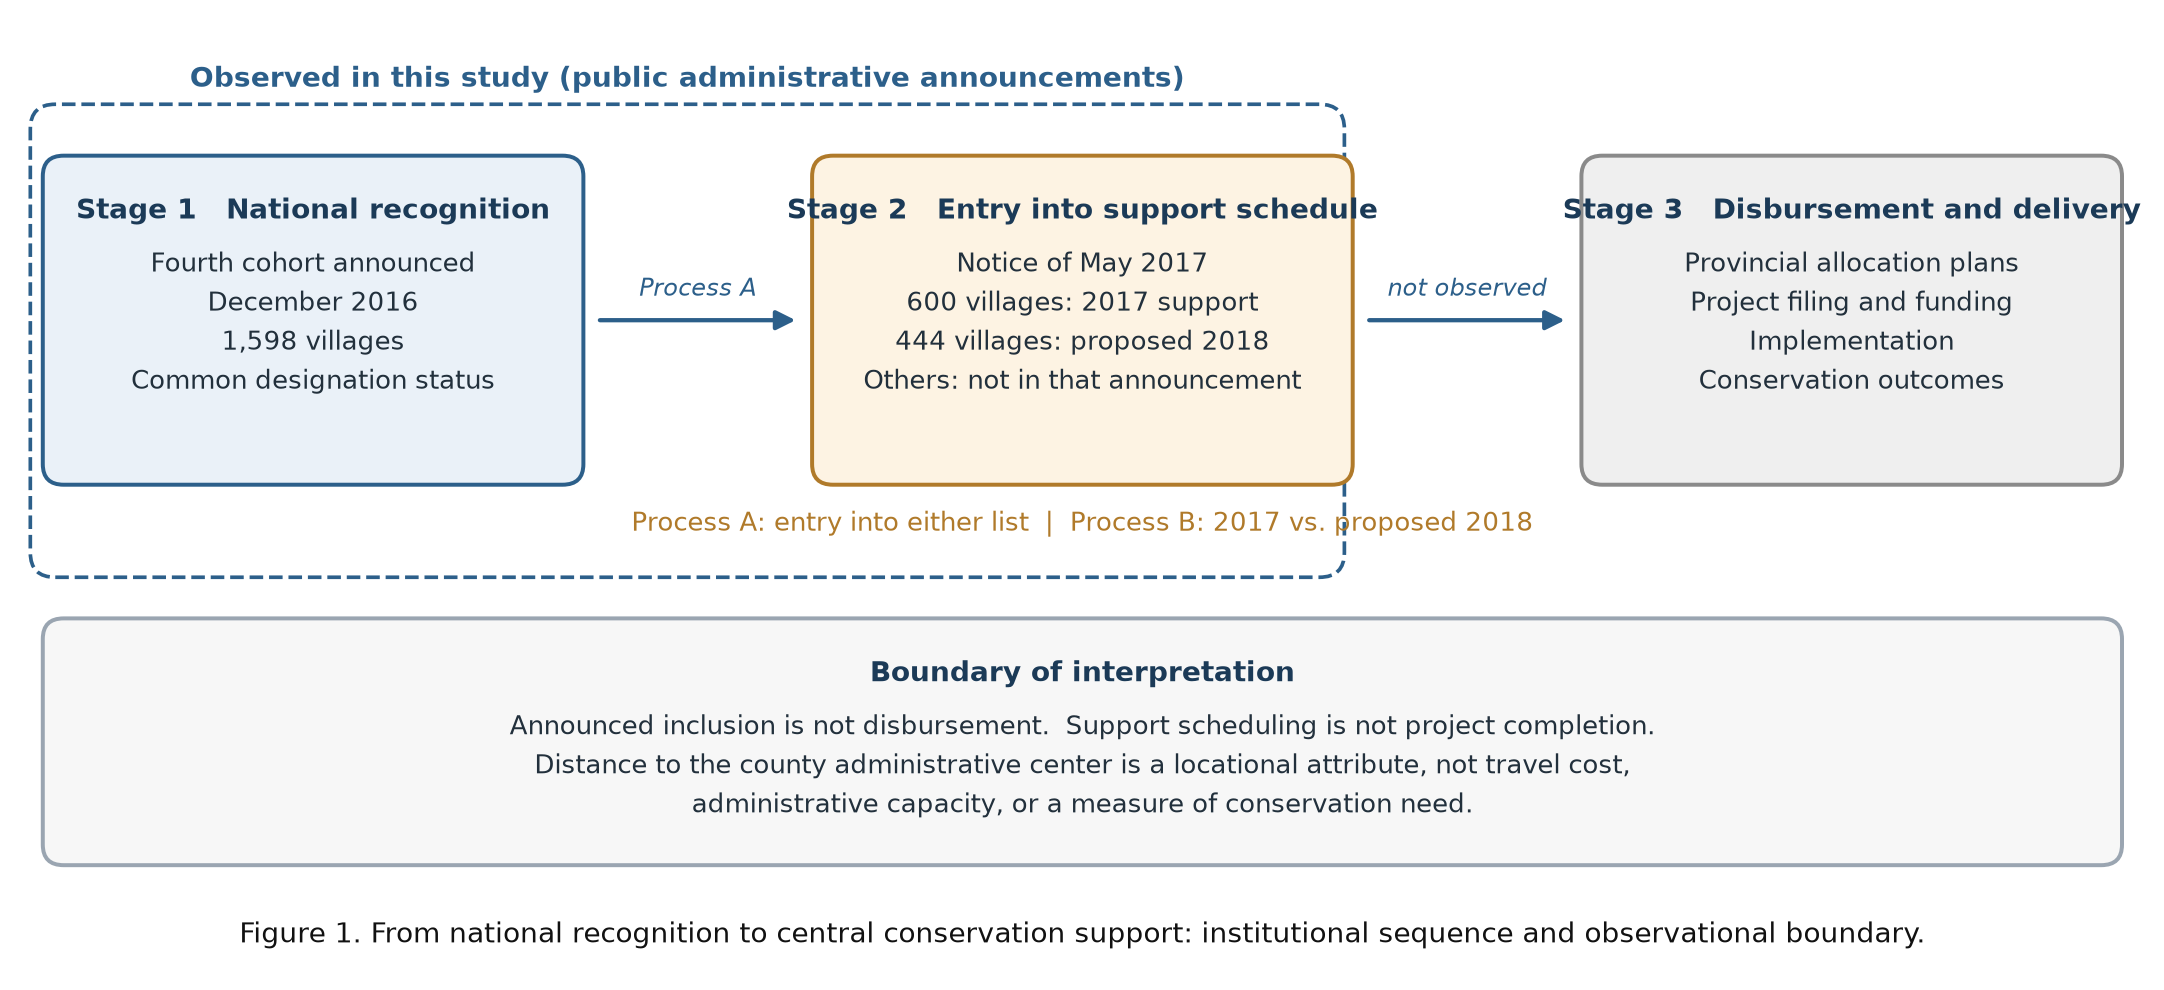
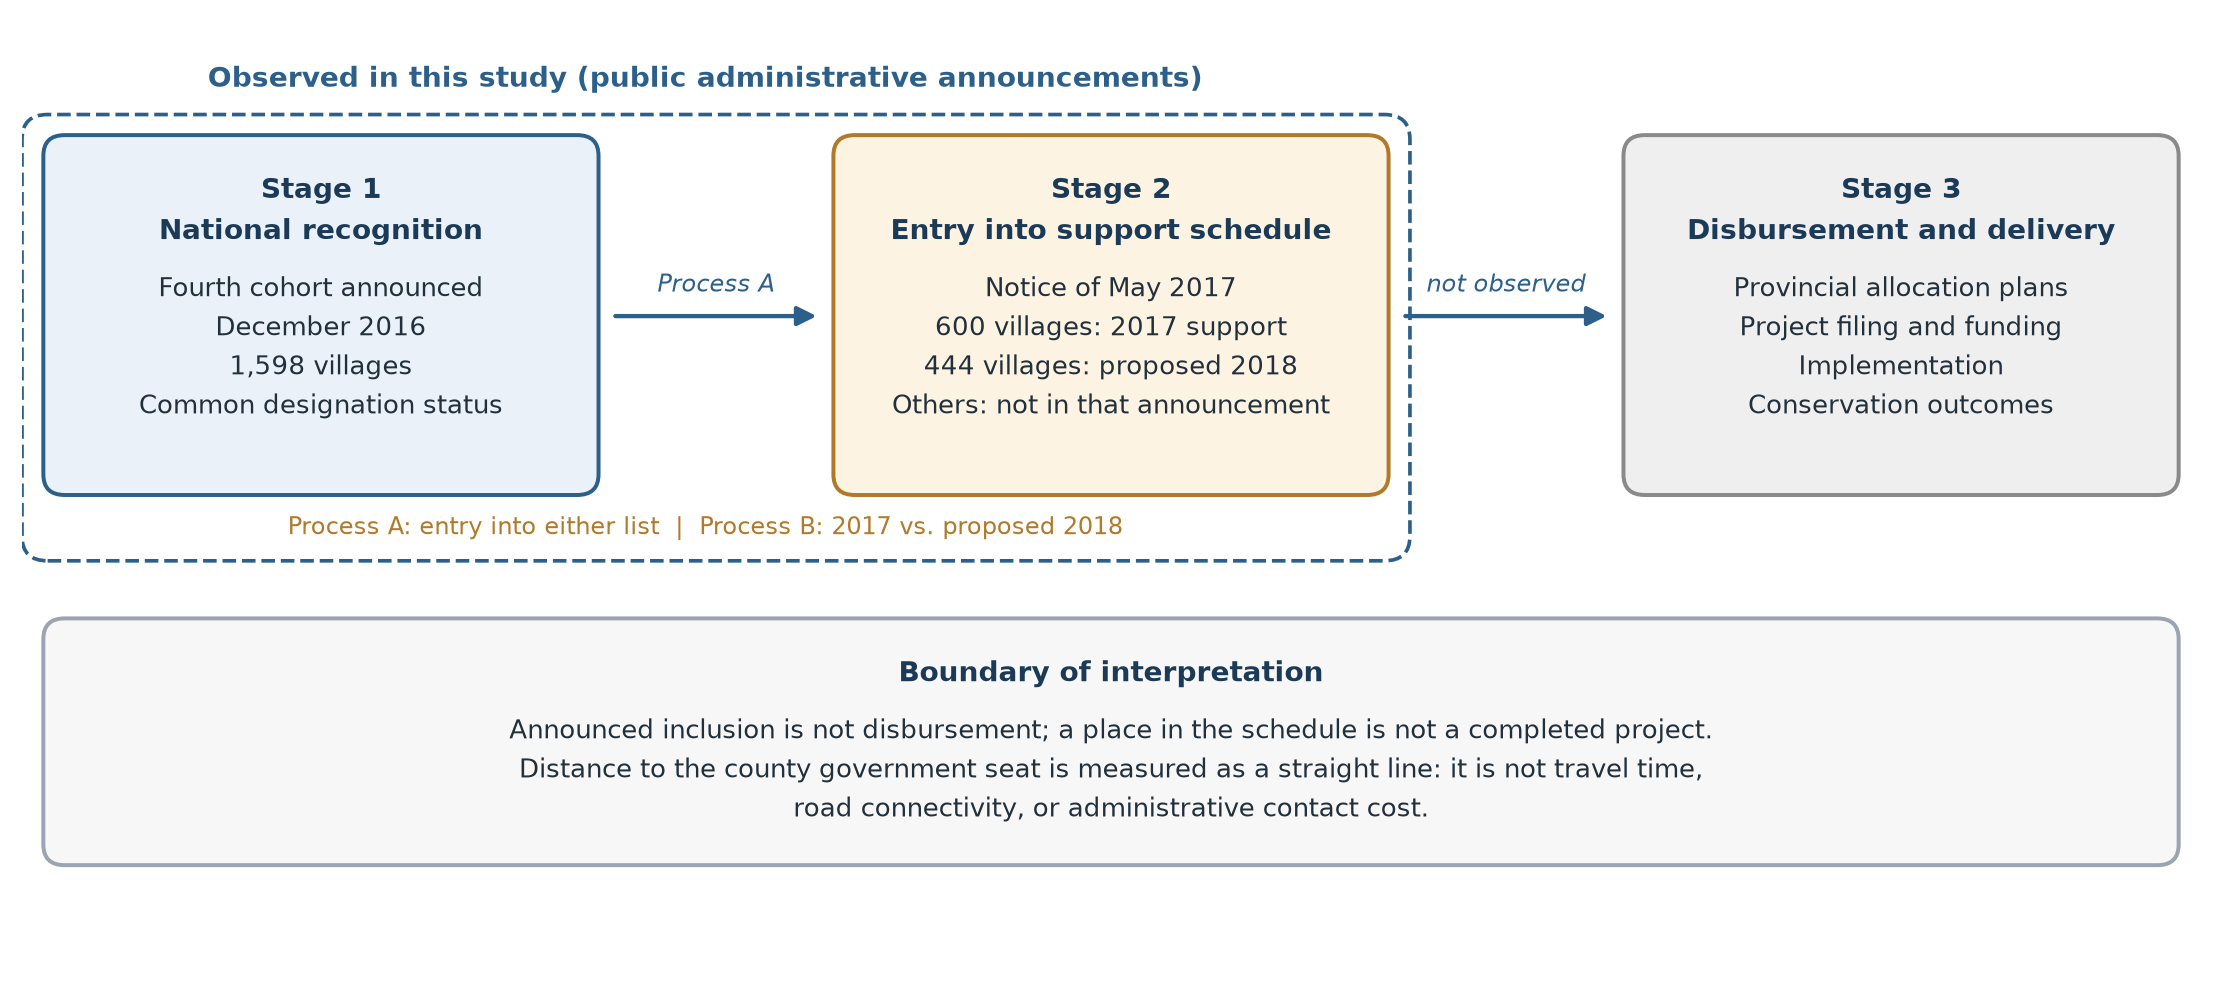
v1.0.1: update manuscript figures and metadata
- fig1_flow.png / fig2_county_diff.png: fix text overflow, remove
  in-figure captions (MDPI typesets captions), align boundary note
  wording with the manuscript; data, seeds and scripts unchanged
  (42 negative / 11 tied / 42 positive; mean -0.039)
- CITATION.cff: version 1.0.1
- RELEASE_NOTES.md: v1.0.1 entry
- MANIFEST.csv: checksums refreshed (81 files)

diff --git a/RELEASE_NOTES.md b/RELEASE_NOTES.md
@@ -39,3 +39,14 @@ so the coordinates are withheld. Obtaining that dataset and running
 * County administrative reference points in `data/county_center_points_public.csv` mirror a public
   administrative-boundary service; readers who prefer not to rely on the redistributed copy can
   regenerate them with `scripts/123_county_center_national.py`.
+
+## v1.0.1
+
+* Updated the two manuscript figures (`output/figures/fig1_flow.png`,
+  `output/figures/fig2_county_diff.png`) to the layout used in the submitted
+  manuscript: text overflow fixed, in-figure captions removed per MDPI style
+  (captions are typeset in the manuscript), and the boundary note aligned with
+  the manuscript wording. No data, estimate, seed or script changed;
+  recomputing the figures reproduces the same 42 negative / 11 tied /
+  42 positive counties and mean -0.039.
+* `CITATION.cff` version bumped to 1.0.1.
